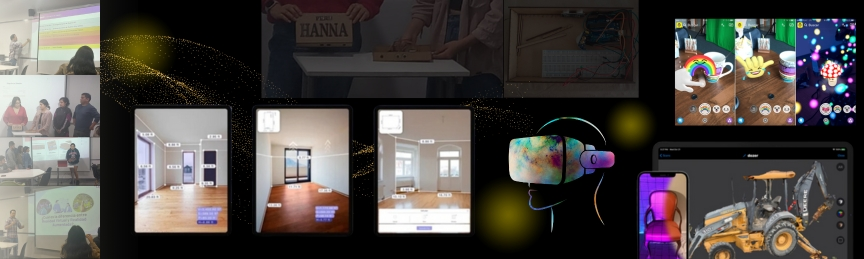
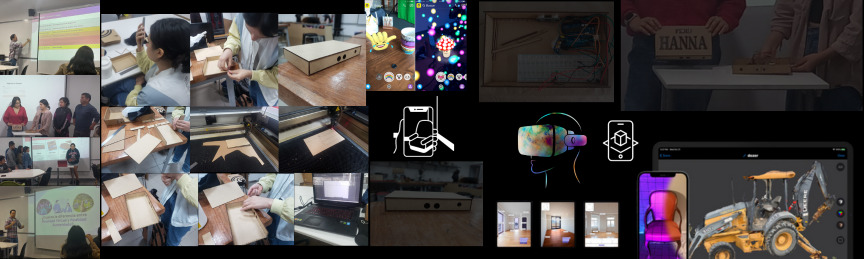
version 2

diff --git a/semana13.html b/semana13.html
@@ -48,9 +48,9 @@
 										<h1>SEMANA 13</h1>
 									</header>
 									<span class="image main"><img src="images/c13.jpg" alt="" /></span>
-									<p>En esta semana hablamos acerca de la realidad aumentada, .</p>
-									<p>.</p>
-									<p>.</p>
+									<p>En esta semana hablamos acerca de la realidad aumentada, y cuáles son las ventajas de la misma en diferentes industrias, aprovechando sus beneficios en cuanto a presupuestos, mano de obra, creatividad, simulación para sectores educativos, entre otros. Luego de la parte teórica pasamos a la parte de la exposición de los proyectos y explicación del mismo, sus funcionalidades, explicar el sensor utilizado, la problemática y la solución, además de escribir al usuario del proyecto.</p>
+									<p>Para el día sábado se nos realizó feedbakes acerca de la página web de cada grupo y cómo podíamos mejorarlo según los ejemplos de clase, una vez en salas nos organizamos en cuanto a la organización de el reparto de actividades del trabajo, en cuanto a mi parte para el día miércoles se me encargó con Johanna de ir a Chacarilla para finarlizar con medidas ya exactas del prototipo del sistema de alarma, en conjunto con Johanna se hizo el ajuste del diseño y se procedió al armado , gracias a Jhonatan que nos ayudó en su tiempo y dar algunos ajustes finales y poder realizar el corte láser.</p>
+									<p>Ya se había hecho un prototipo en clases pero se modificó para el diseño final algunos ajustes, lo cual Johanna llevaría con la letra del usuario colocado para terminarlo. Se tomaron algunas fotos de las evidencias y el armado y ajustes del prototipo, agradecemos al profesor de Laboratorio que nos prestó su aula para poder terminar los ajustes de las medidas.</p>
 								</div>
 							</section>
 
